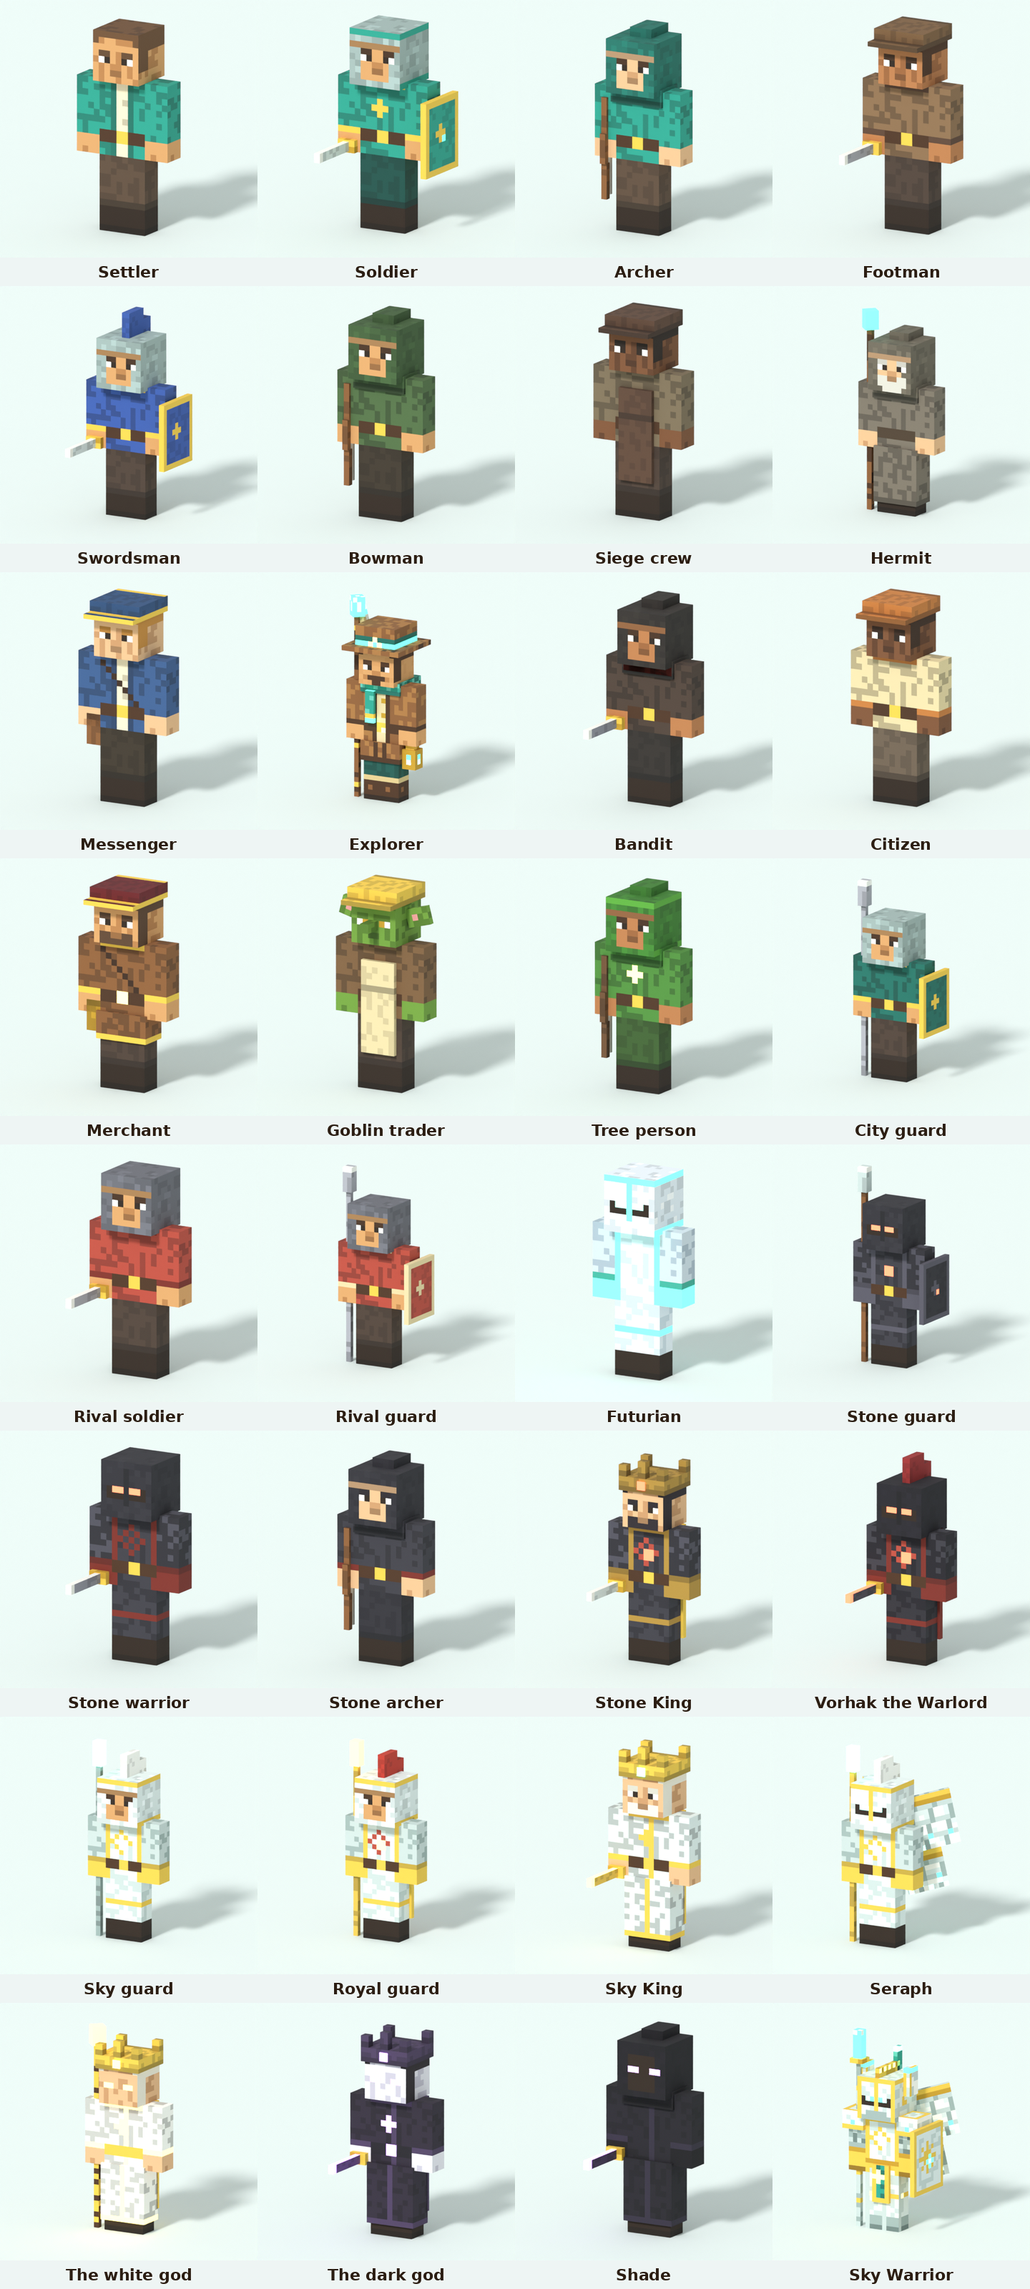
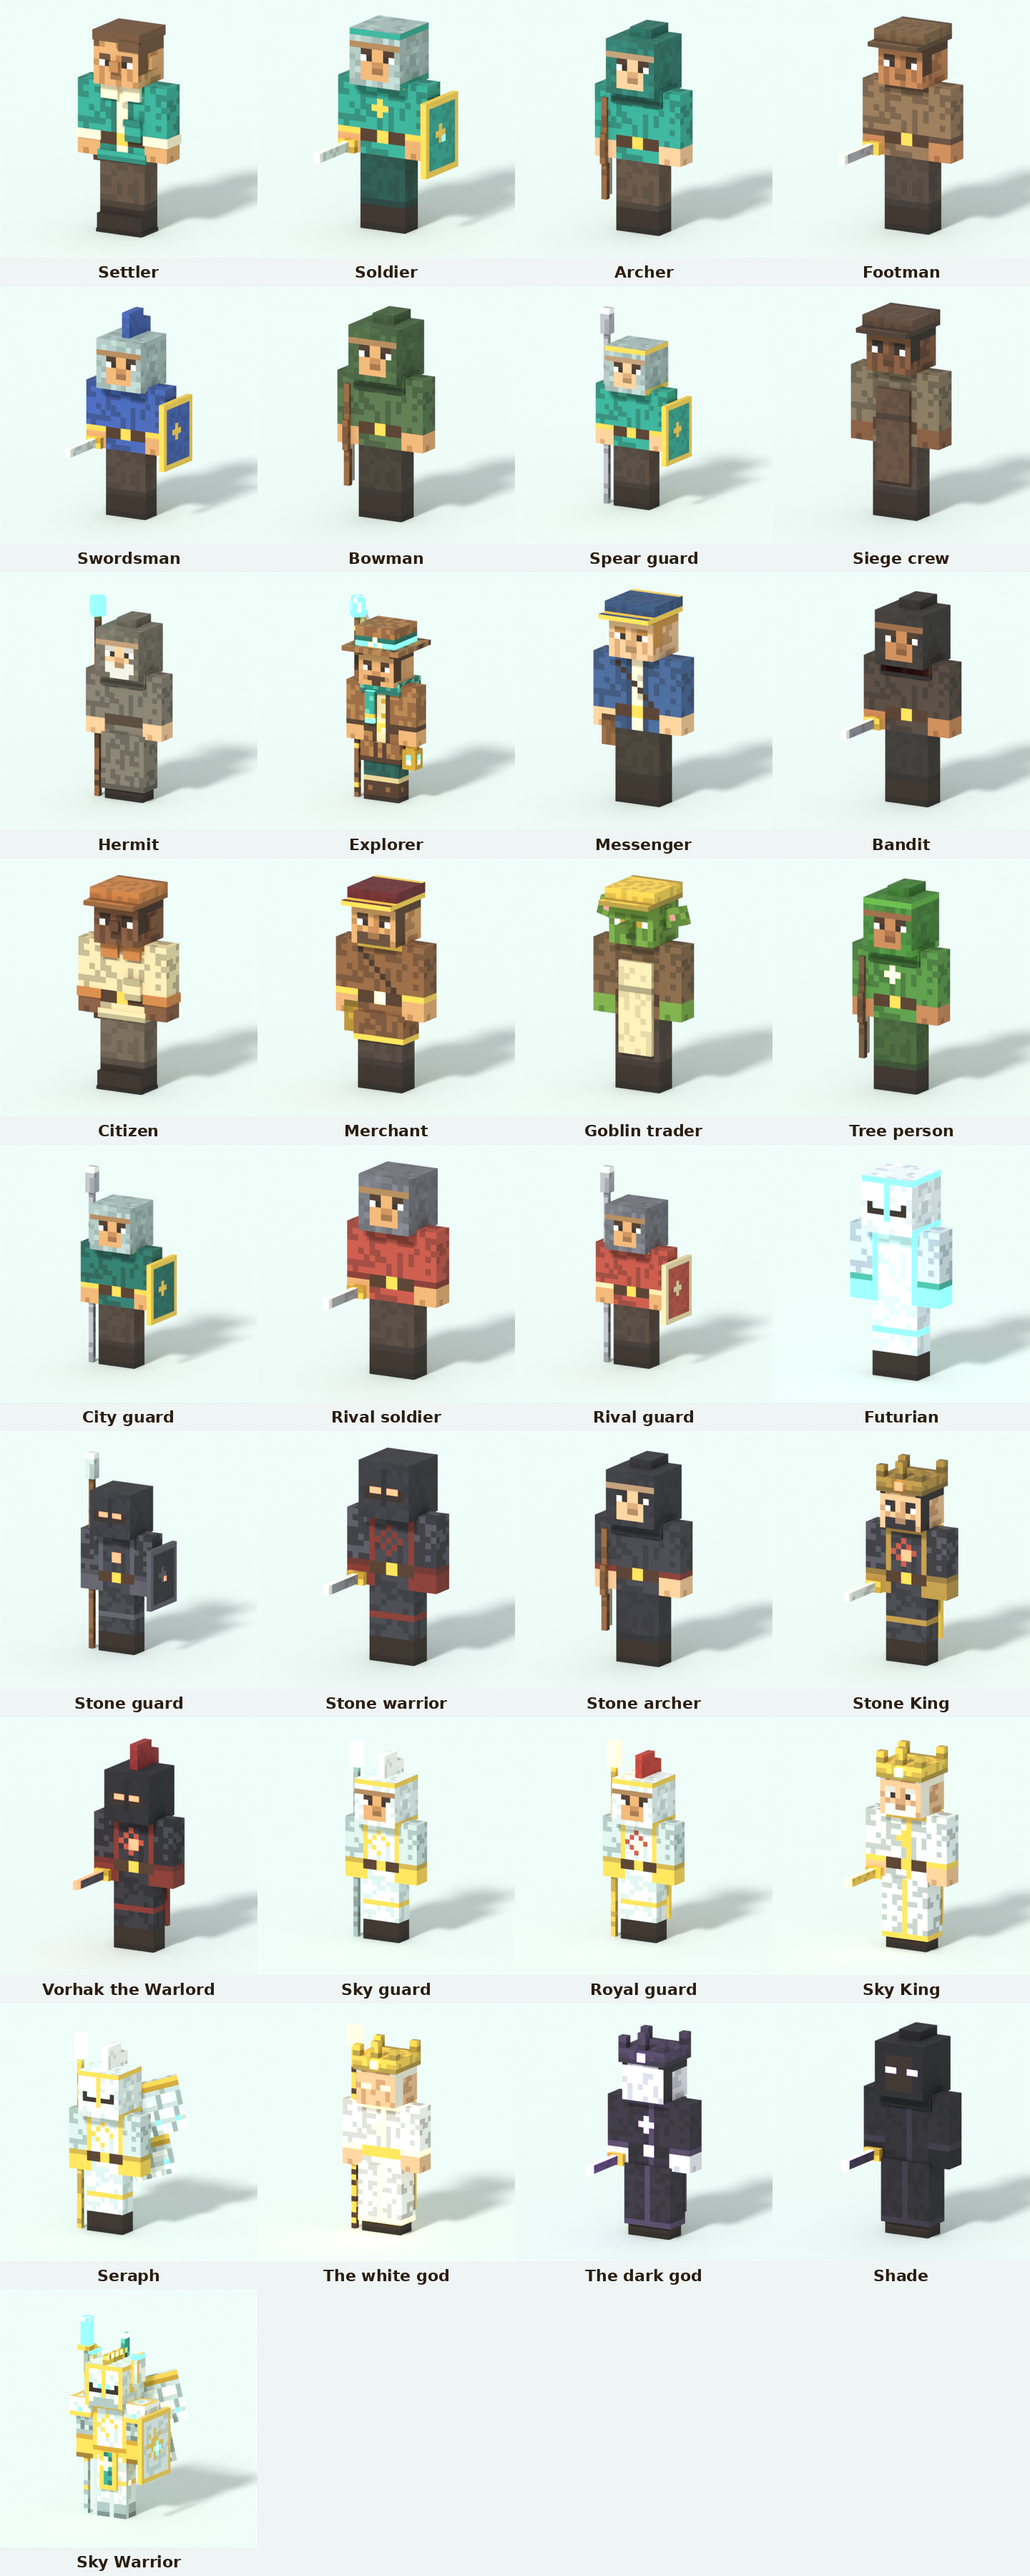
IMP-17 again: spear guards get a face, soldiers stop getting stuck
Owner, 4 November: "still headless and they seem stuck in one place".

- The Garrison's spear guard had no model; its stand-in's helm box hid
  the whole face. New shield_guard model: open-face helm, teal coat,
  spear and shield.
- A soldier could pick a spot behind the barracks wall and shuffle
  against it for good. Spots are now chosen with a clear straight walk,
  and a walk that gets no nearer in 2.5 s is given up.
- Patrols reach 7 blocks with 1 to 4.5 s rests (were 4 blocks, 3 to 10 s).

Claude-Session: https://claude.ai/code/session_01HgGVa7TuDaqakunHmHAQ6k

diff --git a/src/world/Defenders.js b/src/world/Defenders.js
@@ -32,8 +32,15 @@ export const HUNGRY_STRENGTH = 0.6;
 /** A blow or an arrow from `s`, as hard as they can manage today. */
 export const blowOf = (s, hits) => (s.hungry ? Math.max(1, Math.round(hits * HUNGRY_STRENGTH)) : hits);
 const ARROW_SPEED = 26;
-/** Idle soldiers walk within this many blocks of their post, resting REST_MIN to REST_MIN + REST_MORE seconds between walks. */
-const PATROL = 4, REST_MIN = 3, REST_MORE = 7;
+/**
+ * Idle soldiers patrol within PATROL blocks of their post, resting REST_MIN
+ * to REST_MIN + REST_MORE seconds between walks; a walk that is blocked ends
+ * with a short BLOCKED pause, then they head somewhere else (owner, 4
+ * November: they "seem stuck in one place").
+ */
+const PATROL = 7, REST_MIN = 1, REST_MORE = 3.5, BLOCKED = 0.4;
+/** A walk that has not got GIVE_UP_BY blocks nearer in GIVE_UP_AFTER seconds is given up. */
+const GIVE_UP_AFTER = 2.5, GIVE_UP_BY = 0.5;
 const TALL = 2;
 const TABARD = 0xdfe6f2, STEEL = 0xb9bec6, ARCHER_COAT = 0x5f7f4a, HOOD = 0x3f5a34;
 
@@ -299,22 +306,43 @@ export class Defenders {
     if (!s.stroll && away > PATROL + 1) s.stroll = { x: s.post.x, z: s.post.z };
     if (s.stroll) {
       const left = Math.hypot(s.stroll.x - s.x, s.stroll.z - s.z);
-      const moved = left > 0.3 && stepAround(this.world, s, s.stroll.x, s.stroll.z, dt, speed);
+      // Shuffling against a wall gets them no nearer: they give that walk up.
+      const st = s.stroll;
+      if (st.best == null || left < st.best - GIVE_UP_BY) { st.best = left; st.since = 0; }
+      else st.since += dt;
+      const stuck = st.since > GIVE_UP_AFTER;
+      const moved = left > 0.3 && !stuck && stepAround(this.world, s, s.stroll.x, s.stroll.z, dt, speed);
       if (moved) { s.target = { x: s.stroll.x, z: s.stroll.z }; return; }
-      // There, or the way is blocked: stop and rest before the next walk.
+      // There: rest a while. Blocked: a moment's pause, then somewhere else.
       s.stroll = null;
-      s.rest = REST_MIN + this.rand() * REST_MORE;
+      s.rest = left > 0.3 ? BLOCKED : REST_MIN + this.rand() * REST_MORE;
     }
     s.target = null; s.speed = 0;
     if (!s.hungry) s.hp = Math.min(u?.hp ?? SOLDIER.hp, s.hp + dt * 0.5);
     s.rest = (s.rest ?? this.rand() * REST_MORE) - dt;
     if (s.rest > 0) return;
-    // Out to somewhere near the post, or back to the post itself.
-    if (away > 0.6) s.stroll = { x: s.post.x, z: s.post.z };
-    else {
-      const a = this.rand() * Math.PI * 2, r = 1.5 + this.rand() * (PATROL - 1.5);
-      s.stroll = { x: s.post.x + Math.sin(a) * r, z: s.post.z + Math.cos(a) * r };
+    // Far out: back toward the post. Otherwise a new spot round it, one
+    // they can stand on, so the walk is not over before it starts.
+    if (away > PATROL - 1) { s.stroll = { x: s.post.x, z: s.post.z }; return; }
+    for (let tries = 0; tries < 6 && !s.stroll; tries++) {
+      const a = this.rand() * Math.PI * 2, r = 2 + this.rand() * (PATROL - 2);
+      const x = s.post.x + Math.sin(a) * r, z = s.post.z + Math.cos(a) * r;
+      if (this.clearWalk(s, x, z)) s.stroll = { x, z };
     }
+    if (!s.stroll) s.rest = BLOCKED;
+  }
+
+  /** Whether `s` can walk straight to (x, z): ground all the way, no step over 1, room to stand. */
+  clearWalk(s, x, z) {
+    const n = Math.ceil(Math.hypot(x - s.x, z - s.z) / 0.5);
+    let y = s.y;
+    for (let i = 1; i <= n; i++) {
+      const px = s.x + ((x - s.x) * i) / n, pz = s.z + ((z - s.z) * i) / n;
+      const g = groundAt(this.world, px, pz, y, TALL);
+      if (g == null || Math.abs(g - y) > 1 || !bodyFits(this.world, px, pz, g)) return false;
+      y = g;
+    }
+    return true;
   }
 
   /** The enemy nearest `at`, within `range` of it, or null. */

diff --git a/tools/mobs/people.py b/tools/mobs/people.py
@@ -338,6 +338,10 @@ PEOPLE = [
     person('footman', 'Footman', hat='cap', hatColour='#7a5a3a', coat='#8a6a4a', trim='#5a4030', gear='sword', gearColour='#afafb7', trousers='#4a3a30', skin='tan'),
     person('swordsman', 'Swordsman', hat='helm', hatColour=C['steel3'], plume='#3a5aa8', coat='#3a5aa8', trim=C['gold'], gear='sword', shield=('#3a5aa8', C['gold'])),
     person('bowman', 'Bowman', hat='hood', hatColour='#3f5a34', coat='#4f6a40', trousers='#3a3024', gear='bow', quiver=C['woodDark']),
+    # The Garrison's spear guard (owner, 4 November: "still headless"): it had no
+    # model, and the stand-in's helm box hid the whole face. An open-face helm here.
+    person('shield_guard', 'Spear guard', hat='helm', hatColour=C['steel3'], hatTrim=C['gold'], coat=C['teal'], trim=C['gold'],
+           gear='spear', gearColour='#afafb7', shield=(C['teal'], C['gold']), skin='light'),
     person('crew', 'Siege crew', hat='cap', hatColour='#5a4030', coat='#7a6a52', apron='#5a4030', trousers='#4a3a30', skin='dark', hair='#2a1e16'),
     # Out in the world.
     person('hermit', 'Hermit', hat='hood', hatColour='#6b6355', beard='#d9d4c8', hair='#d9d4c8', coat='#7a7062', robe=True, belt='#4a3a2a',

diff --git a/docs/TASKS.md b/docs/TASKS.md
@@ -392,7 +392,7 @@ owner and block the task until answered.
 | IMP-14 | **A station lists only its own recipes.** Owner, 31 October: "The recipes should not show bench recipes this ones are only able to be made in this items." A placed station's panel lists only the recipes made at that station; workbench (hand) recipes stay out of it. Check what #263 already filters before building. | Any agent | done, merged 31 October (#276 via #273) |
 | IMP-15 | **Transformations as a place-it-in, watch-it-change process.** Owner, 31 October: "for the melting building, o would like a more dynamic way of putting the items like a spot that I could place them and they would move in the new form to the other. The rule must be if it's a transformation of n item into another it should be with this form." Owner, 31 October, on the forge: "we should have that flow to create in the forge pop up. Not in the workbench in that container when make the item." So everything the forge makes (grey stone, dark logs, dark stone and bricks, metal swords) is made in the forge's own pop-up with this flow, and leaves the workbench; this is IMP-10 step 7. At the foundry (smelting) and the forge first: an input spot where you put the items, and they move across and come out in their new form at an output spot. The rule for every recipe that turns an item into another item (smelting, washing, charring, milling, planing): use this form. Ties in with IMP-10 step 7 (the forge's own make-it-here process) and CRAFT-8 (timing, dragging, animations). **Decided 31 October:** "They should be an item spot to place the item. The timings should be pretty quick for most things, like min 30 sec max 2 min. It should be one at a time yes". So: the panel has an item slot to put the items in and one to take the result from; items go through one at a time; each item takes between 15 seconds and 2 minutes, most near the short end (owner, 31 October: "For each let's make min 15 sec then"). **Decided 31 October:** the item spots are in the station's pop-up (an input slot, a bar for the item in work, an output slot), and work goes on while you walk away. | Any agent | done, merged 31 October (#279 via #273): forge, foundry, mills, bleach bucket, planing and joinery benches; 15 to 90 s a batch |
 | IMP-16 | **Villagers and other mobs: better models and natural movement.** Owner, 31 October: "mobs speaciallu villagers need some work. They need improvements in their 3d modeling, and movements, they stop in a weirdly Manner, they need to stop with both legs straight, and they should have natural movements. Also they are able to go to roofs of the house. It seems that they can't open doors." Parts: (a) better 3D models, villagers first; (b) when they stop walking, both legs come back straight; (c) natural walking and idle movement; (d) villagers still reach house roofs (MOBS-1 and NOW-18 fixed one way; reproduce what is left); (e) villagers open doors and walk through them. | Any agent | done, merged 31 October (#274 via #273): doors, roofs on load and under construction, straight legs on stopping, smooth turning; new 3D models (part a) still to do and need the owner's direction |
-| IMP-17 | **Military residents are headless and stand still.** Owner, 31 October, first: "I created military residents and they are not showing. I can't see them anywhere." Then: "I found the warriors and they are headless and still." So they exist, but (a) they are drawn without a head and (b) they do not move. Fix the model so the head is drawn, and give them the same movement rules as villagers (IMP-16). Check first whether the headless model is the soldier model itself or something lost when standing in formation (#264 changed formations). | Any agent | done, merged 31 October (#273): the head was a NaN matrix from a text id; idle soldiers now stroll within 4 blocks of their post |
+| IMP-17 | **Military residents are headless and stand still.** Owner, 31 October, first: "I created military residents and they are not showing. I can't see them anywhere." Then: "I found the warriors and they are headless and still." So they exist, but (a) they are drawn without a head and (b) they do not move. Fix the model so the head is drawn, and give them the same movement rules as villagers (IMP-16). Check first whether the headless model is the soldier model itself or something lost when standing in formation (#264 changed formations). | Claude | done, merged 31 October (#273): the head was a NaN matrix from a text id; idle soldiers now stroll within 4 blocks of their post. **Reopened 4 November** (owner: "still headless and they seem stuck in one place"): the Garrison's spear guards had no model, and their stand-in's helm box hid the face; and a walk to a spot behind a wall left a soldier shuffling against it for good. Fixed in the PR that changes this line: a `shield_guard` model with an open-face helm; patrols of 7 blocks with 1 to 4.5 s rests, spots chosen with a clear walk, a stuck walk given up after 2.5 s |
 | IMP-18 | **The bow at the Planing Bench, not the plane in the bag.** Owner, 31 October: "It seems that the carpentry plane still needs to be in my bag to be used instead of placed." Since IMP-10 step 3 (#268) the bow is the only recipe that asks for the Carpentry Plane in the bag (it was kept on purpose then). Move the bow to the placed Planing Bench (`station: 'planing_bench'`), drop its plane tool rule (it keeps the saw), stop making the Carpentry Plane item (keep it so old bags load, out of the collection book like the mallet), and update the recipe blurbs, the wiki and `tests/joinery-bench.test.mjs`. | Any agent | done, merged 31 October (#277 via #273); the Planing Bench moves to Age 1 so the bow stays an Age 1 make |
 | IMP-19 | **A placed Workbench for full crafting; the menu bench makes only simple things.** Owner, 31 October: "crafting need more details, workshop should have an item (new one) called workbench. That should allow to do all the crafting, on the bench that o have from The menu I should only be able to craft the more simple stuff." Parts: (a) a new **Workbench** item, made for or at the workshop, that you place and use for all the crafting; (b) the bench opened from the menu keeps only the simple recipes. **Decided 31 October:** the menu bench keeps everything up to Age 2; the placed Workbench works anywhere once placed. Fits with IMP-13 and IMP-14 (each station shows its own name and only its own recipes). | Any agent | done, merged 31 October (#278 via #273): Workbench by hand at Age 3 (owner's choice, 31 October) or at a workshop; the menu panel is renamed Bench |
 | IMP-20 | **Buildings you place yourself take time, longer than with villagers.** Owner, 31 October: "We should also add time for buildings to be built when placed by me without villagers and we should make sure that it takes more time then the villagers." Today a ready-made building placed by the player (`Game.stampTemplate`) appears at once. Make it go up over time, block by block like IMP-12, and always slower than the same building with villager builders, so the Work Hall is worth using. **Decided 31 October:** "Not twice like maybe 0.5 faster only, I don't need to stand nearby, they should keep working while I'm gone." So villagers are 0.5 times faster: your own building takes 1.5 times as long as the same building with villagers. You do not have to stay near it, and it keeps going while you are away from it. While the game is closed, your own building does not go on: it waits, under the rule "game closed no production". Only villager builds (IMP-12) go on while the game is closed (owner, 31 October: "For this case we should break that rule", then "I was talking about villagers not the ones I placed"). | Any agent | done, merged 31 October (#275 via #273, with IMP-12); your own saved designs still place at once |
